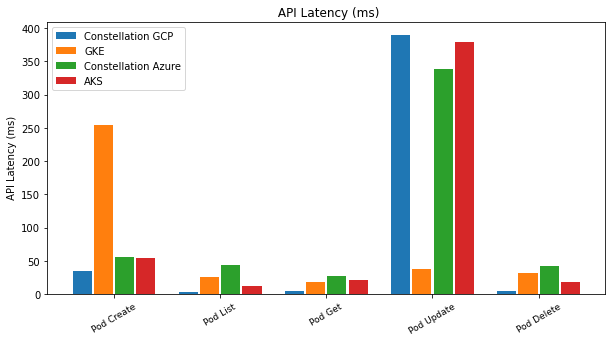
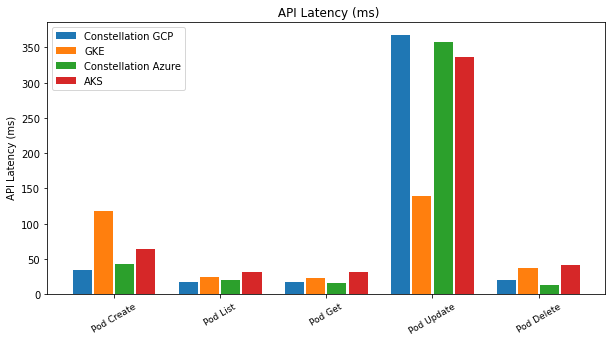
AB#2377 Repeat benchmarks on CVMs

diff --git a/docs/docs/overview/performance.md b/docs/docs/overview/performance.md
@@ -10,7 +10,7 @@ AMD and Azure jointly released a [performance benchmark](https://community.amd.c
 
 ## Performance impact from other features
 
-To assess the overall performance of Constellation, we benchmarked Constellation v1.3.0 using [K-Bench](https://github.com/vmware-tanzu/k-bench). K-Bench is a configurable framework to benchmark Kubernetes clusters in terms of storage I/O, network performance, and creating/scaling resources.
+To assess the overall performance of Constellation, we benchmarked Constellation v2.0.0 using [K-Bench](https://github.com/vmware-tanzu/k-bench). K-Bench is a configurable framework to benchmark Kubernetes clusters in terms of storage I/O, network performance, and creating/scaling resources.
 
 As a baseline, we compare Constellation with the non-confidential managed Kubernetes offerings on Microsoft Azure and Google Cloud Platform (GCP). These are AKS on Azure and GKE on GCP.
 
@@ -21,16 +21,16 @@ We used the following configurations for the benchmarks.
 #### Constellation and GKE on GCP
 
 - Nodes: 3
-- Machines: `n2d-standard-2`
-- Kubernetes version: `1.23.6-gke.2200`
+- Machines: `n2d-standard-4`
+- CVM: `true`
 - Zone: `europe-west3-b`
 
 #### Constellation and AKS on Azure
 
 - Nodes: 3
-- Machines: `D2a_v4`
-- Kubernetes version: `1.23.5`
-- Region: `North Europe`
+- Machines: `DC4as_v5`
+- CVM: `true`
+- Region: `West Europe`
 - Zone: `2`
 
 #### K-Bench
@@ -38,7 +38,6 @@ We used the following configurations for the benchmarks.
 Using the default [K-Bench test configurations](https://github.com/vmware-tanzu/k-bench/tree/master/config), we ran the following tests on the clusters:
 
 - `default`
-- `dp_netperf_internode`
 - `dp_network_internode`
 - `dp_network_intranode`
 - `dp_fio`
@@ -67,14 +66,14 @@ Deployments: Constellation has the lowest latency for all cases except for scali
 #### Network
 
 There are two main indicators for network performance: intra-node and inter-node transmission speed.
-K-Bench provides benchmark tests for both, configured as `dp_netperf_internode`, `dp_network_internode`, and `dp_network_intranode`.
+K-Bench provides benchmark tests for both, configured as `dp_network_internode` and `dp_network_intranode`. The tests use [`iperf`](https://iperf.fr/) to measure the bandwidth available.
 
 ##### Inter-node
 
-K-Bench has two benchmarks to evaluate the network performance between different nodes.
+Inter-node communication is the network transmission between different Kubernetes nodes.
 
-The first test (`dp_netperf_internode`) uses [`netperf`](https://hewlettpackard.github.io/netperf/) to measure the throughput. Constellation has a slightly lower network throughput than AKS and GKE.
-This can largely be attributed to its [network encryption](../architecture/networking.md).
+The first test (`dp_network_internode`) measures the throughput between nodes. Constellation has an inter-node throughput of around 816 Mbps on Azure to 872 Mbps on GCP. While that's faster than the average throughput of AKS at 577 Mbps, GKE provides faster networking at 9.55 Gbps.
+The difference can largely be attributed to Constellation's [network encryption](../architecture/networking.md) that protects data in-transit.
 
 ##### Intra-node
 
@@ -82,8 +81,7 @@ Intra-node communication happens between pods running on the same node.
 The connections directly pass through the node's OS layer and never hit the network.
 The benchmark evaluates how the [Constellation's node OS image](../architecture/images.md) and runtime encryption influence the throughput.
 
-The K-Bench tests `dp_network_internode` and `dp_network_intranode`. The tests use [`iperf`](https://iperf.fr/) to measure the bandwidth available.
-Constellation's bandwidth for both sending and receiving is at 20 Gbps while AKS achieves slightly higher numbers and GKE achieves about 30 Gbps in the tests.
+Constellation's bandwidth for both sending and receiving is at 31 Gbps on Azure and 22 Gbps on GCP. AKS achieves 26 Gbps and GKE achieves about 27 Gbps in the tests.
 
 ![](../_media/benchmark_net.png)
 
@@ -103,11 +101,7 @@ The following graph shows I/O throughput in MiB/s (higher is better).
 
 Comparing Constellation on GCP with GKE, you see that Constellation offers similar read/write speeds in all scenarios.
 
-Constellation on Azure and AKS, however, partially differ. Only for the full write mix, Constellation and AKS have similar storage access speeds. In the `70/30 mix`, AKS outperforms Constellation.
-
-:::note
-For the sequential reads with a `0/100 read-write mix`, no data could be measured on AKS, hence the missing data bar.
-:::
+Constellation on Azure and AKS, however, partially differ. In read-write mixes, Constellation on Azure outperforms AKS in terms of I/O. On full-write access, Constellation and AKS have the same speed.
 
 ## Conclusion
 

diff --git a/docs/versioned_docs/version-2.0/overview/performance.md b/docs/versioned_docs/version-2.0/overview/performance.md
@@ -10,7 +10,7 @@ AMD and Azure jointly released a [performance benchmark](https://community.amd.c
 
 ## Performance impact from other features
 
-To assess the overall performance of Constellation, we benchmarked Constellation v1.3.0 using [K-Bench](https://github.com/vmware-tanzu/k-bench). K-Bench is a configurable framework to benchmark Kubernetes clusters in terms of storage I/O, network performance, and creating/scaling resources.
+To assess the overall performance of Constellation, we benchmarked Constellation v2.0.0 using [K-Bench](https://github.com/vmware-tanzu/k-bench). K-Bench is a configurable framework to benchmark Kubernetes clusters in terms of storage I/O, network performance, and creating/scaling resources.
 
 As a baseline, we compare Constellation with the non-confidential managed Kubernetes offerings on Microsoft Azure and Google Cloud Platform (GCP). These are AKS on Azure and GKE on GCP.
 
@@ -21,16 +21,16 @@ We used the following configurations for the benchmarks.
 #### Constellation and GKE on GCP
 
 - Nodes: 3
-- Machines: `n2d-standard-2`
-- Kubernetes version: `1.23.6-gke.2200`
+- Machines: `n2d-standard-4`
+- CVM: `true`
 - Zone: `europe-west3-b`
 
 #### Constellation and AKS on Azure
 
 - Nodes: 3
-- Machines: `D2a_v4`
-- Kubernetes version: `1.23.5`
-- Region: `North Europe`
+- Machines: `DC4as_v5`
+- CVM: `true`
+- Region: `West Europe`
 - Zone: `2`
 
 #### K-Bench
@@ -38,7 +38,6 @@ We used the following configurations for the benchmarks.
 Using the default [K-Bench test configurations](https://github.com/vmware-tanzu/k-bench/tree/master/config), we ran the following tests on the clusters:
 
 - `default`
-- `dp_netperf_internode`
 - `dp_network_internode`
 - `dp_network_intranode`
 - `dp_fio`
@@ -67,14 +66,14 @@ Deployments: Constellation has the lowest latency for all cases except for scali
 #### Network
 
 There are two main indicators for network performance: intra-node and inter-node transmission speed.
-K-Bench provides benchmark tests for both, configured as `dp_netperf_internode`, `dp_network_internode`, and `dp_network_intranode`.
+K-Bench provides benchmark tests for both, configured as `dp_network_internode` and `dp_network_intranode`. The tests use [`iperf`](https://iperf.fr/) to measure the bandwidth available.
 
 ##### Inter-node
 
-K-Bench has two benchmarks to evaluate the network performance between different nodes.
+Inter-node communication is the network transmission between different Kubernetes nodes.
 
-The first test (`dp_netperf_internode`) uses [`netperf`](https://hewlettpackard.github.io/netperf/) to measure the throughput. Constellation has a slightly lower network throughput than AKS and GKE.
-This can largely be attributed to its [network encryption](../architecture/networking.md).
+The first test (`dp_network_internode`) measures the throughput between nodes. Constellation has an inter-node throughput of around 816 Mbps on Azure to 872 Mbps on GCP. While that's faster than the average throughput of AKS at 577 Mbps, GKE provides faster networking at 9.55 Gbps.
+The difference can largely be attributed to Constellation's [network encryption](../architecture/networking.md) that protects data in-transit.
 
 ##### Intra-node
 
@@ -82,8 +81,7 @@ Intra-node communication happens between pods running on the same node.
 The connections directly pass through the node's OS layer and never hit the network.
 The benchmark evaluates how the [Constellation's node OS image](../architecture/images.md) and runtime encryption influence the throughput.
 
-The K-Bench tests `dp_network_internode` and `dp_network_intranode`. The tests use [`iperf`](https://iperf.fr/) to measure the bandwidth available.
-Constellation's bandwidth for both sending and receiving is at 20 Gbps while AKS achieves slightly higher numbers and GKE achieves about 30 Gbps in the tests.
+Constellation's bandwidth for both sending and receiving is at 31 Gbps on Azure and 22 Gbps on GCP. AKS achieves 26 Gbps and GKE achieves about 27 Gbps in the tests.
 
 ![](../_media/benchmark_net.png)
 
@@ -103,11 +101,7 @@ The following graph shows I/O throughput in MiB/s (higher is better).
 
 Comparing Constellation on GCP with GKE, you see that Constellation offers similar read/write speeds in all scenarios.
 
-Constellation on Azure and AKS, however, partially differ. Only for the full write mix, Constellation and AKS have similar storage access speeds. In the `70/30 mix`, AKS outperforms Constellation.
-
-:::note
-For the sequential reads with a `0/100 read-write mix`, no data could be measured on AKS, hence the missing data bar.
-:::
+Constellation on Azure and AKS, however, partially differ. In read-write mixes, Constellation on Azure outperforms AKS in terms of I/O. On full-write access, Constellation and AKS have the same speed.
 
 ## Conclusion
 
